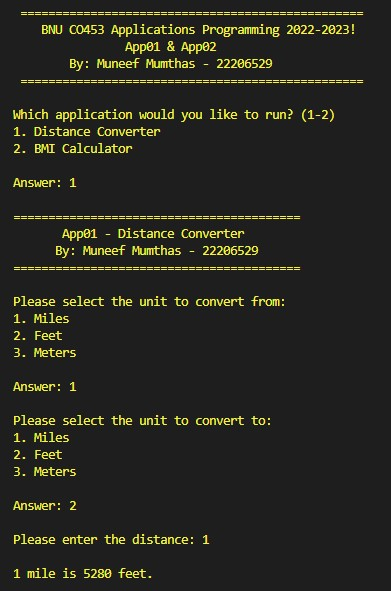
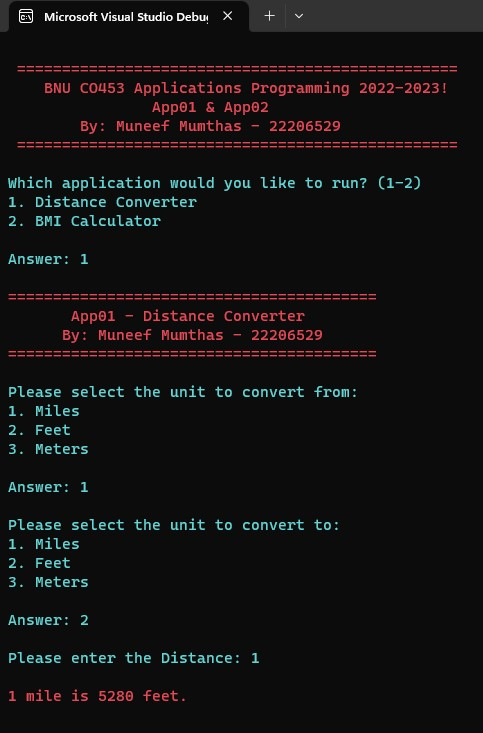
changed colours screenshots

Changed region(s): [[0.0, 0.0, 0.9514, 1.0]]

diff --git a/ConsoleAppProject/App01/DistanceConverter.cs b/ConsoleAppProject/App01/DistanceConverter.cs
@@ -26,6 +26,7 @@ namespace ConsoleAppProject.App01
         public void Input()
         {
             // Prompts user to select unit to convert from
+            Console.ForegroundColor = ConsoleColor.Cyan;
             Console.WriteLine("Please select the unit to convert from:");
             Console.WriteLine("1. Miles");
             Console.WriteLine("2. Feet");
@@ -36,6 +37,7 @@ namespace ConsoleAppProject.App01
             Console.WriteLine();
 
             // Prompts user to select unit to convert to
+            Console.ForegroundColor = ConsoleColor.Cyan;
             Console.WriteLine("Please select the unit to convert to:");
             Console.WriteLine("1. Miles");
             Console.WriteLine("2. Feet");
@@ -48,7 +50,9 @@ namespace ConsoleAppProject.App01
             // Error message for selecting the same unit and a prompt to select a different unit to convert to
             while (FromUnit == ToUnit)
             {
-            Console.WriteLine("Error: You cannot convert the same unit.");    
+            Console.ForegroundColor = ConsoleColor.DarkYellow;
+            Console.WriteLine("Error: You cannot convert the same unit.");
+            Console.ForegroundColor = ConsoleColor.Cyan;
             Console.WriteLine("Please select a different unit to convert to:");
             Console.WriteLine("1. Miles");
             Console.WriteLine("2. Feet");
@@ -60,6 +64,7 @@ namespace ConsoleAppProject.App01
             }
 
             // Prompts user to input Distance
+            Console.ForegroundColor = ConsoleColor.Cyan;
             Console.Write("Please enter the Distance: ");
             string input = Console.ReadLine();
 
@@ -70,18 +75,23 @@ namespace ConsoleAppProject.App01
                     Distance = Convert.ToDouble(input);
                     if (Distance < 0)
                     {
-                     throw new Exception("Distance cannot be negative.");
+                        Console.ForegroundColor = ConsoleColor.DarkYellow;
+                        throw new Exception("Distance cannot be negative.");
                     }
                     break;
                 }
                 catch (FormatException)
                 {
+                    Console.ForegroundColor = ConsoleColor.DarkYellow;
                     Console.WriteLine("Error: Invalid input. Please enter a valid numerical value.");
+                    Console.ForegroundColor = ConsoleColor.Cyan;
                     input = Console.ReadLine();
                 }
                 catch (Exception e)
                 {
+                    Console.ForegroundColor = ConsoleColor.DarkYellow;
                     Console.WriteLine("Error: " + e.Message + " Please enter a positive number: ");
+                    Console.ForegroundColor = ConsoleColor.Cyan;
                     input = Console.ReadLine();
                 }
             }
@@ -96,48 +106,60 @@ namespace ConsoleAppProject.App01
                     if (ToUnit == 2)
                     {
                         Result = Distance * MILES_IN_FEET;
+                        Console.ForegroundColor = ConsoleColor.Red;
                         Console.WriteLine();
                         Console.WriteLine(Distance + (Distance == 1 ? " mile" : " miles") + " is " + Result + (Result == 1 ? " foot" : " feet") + ".");
                         Console.WriteLine();
+                        Console.ForegroundColor = ConsoleColor.Cyan;
                     }
                     else if (ToUnit == 3)
                     {
                         Result = Distance * MILES_IN_FEET * FEET_IN_METERS;
+                        Console.ForegroundColor = ConsoleColor.Red;
                         Console.WriteLine();
                         Console.WriteLine(Distance + (Distance == 1 ? " mile" : " miles") + " is " + Result + (Result == 1 ? " meter" : " meters") + ".");
                         Console.WriteLine();
+                        Console.ForegroundColor = ConsoleColor.Cyan;
                     }
                     break;
                 case 2: // Converting From Feet
                     if (ToUnit == 1)
                     {
                         Result = Distance / MILES_IN_FEET;
+                        Console.ForegroundColor = ConsoleColor.Red;
                         Console.WriteLine();
                         Console.WriteLine(Distance + (Distance == 1 ? " foot" : " feet") + " is " + Result + (Result == 1 ? " mile" : " miles") + ".");
                         Console.WriteLine();
+                        Console.ForegroundColor = ConsoleColor.Cyan;
                     }
                     else if (ToUnit == 3)
                     {
                         Result = Distance * FEET_IN_METERS;
+                        Console.ForegroundColor = ConsoleColor.Red;
                         Console.WriteLine();
                         Console.WriteLine(Distance + (Distance == 1 ? " foot" : " feet") + " is " + Result + (Result == 1 ? " meter" : " meters") + ".");
                         Console.WriteLine();
+                        Console.ForegroundColor = ConsoleColor.Cyan;
                     }
                     break;
                 case 3: // Converting From Meters
                     if (ToUnit == 1)
                     {
                         Result = Distance / MILES_IN_FEET / FEET_IN_METERS;
+                        Console.ForegroundColor = ConsoleColor.Red;
                         Console.WriteLine();
                         Console.WriteLine(Distance + (Distance == 1 ? " meter" : " meters") + " is " + Result + (Result == 1 ? " mile" : " miles") + ".");
                         Console.WriteLine();
+                        Console.ForegroundColor = ConsoleColor.Cyan;
                     }
                     else if (ToUnit == 2)
                     {
                         Result = Distance / FEET_IN_METERS;
+                        Console.ForegroundColor = ConsoleColor.Red;
                         Console.WriteLine();
                         Console.WriteLine(Distance + (Distance == 1 ? " meter" : " meters") + " is " + Result + (Result == 1 ? " foot" : " feet") + ".");
                         Console.WriteLine();
+                        Console.ForegroundColor = ConsoleColor.Cyan;
                     }
                     break;
             }
@@ -157,7 +179,9 @@ namespace ConsoleAppProject.App01
             }
             catch (Exception)
             {
+            Console.ForegroundColor = ConsoleColor.DarkYellow;
             Console.WriteLine("Error: Invalid option entered. Please enter a number between 1 and 3.");
+            Console.ForegroundColor = ConsoleColor.Cyan;
             option = GetValidOption();
             }
             return option;

diff --git a/ConsoleAppProject/App02/BMI.cs b/ConsoleAppProject/App02/BMI.cs
@@ -32,6 +32,7 @@ namespace ConsoleAppProject.App02
             bool validInput = false;
             while (!validInput)
             {
+                Console.ForegroundColor = ConsoleColor.Cyan;
                 Console.WriteLine("Select your preferred unit system:");
                 Console.WriteLine("1. Metric");
                 Console.WriteLine("2. Imperial");
@@ -51,7 +52,9 @@ namespace ConsoleAppProject.App02
                 }
                 else
                 {
+                    Console.ForegroundColor = ConsoleColor.DarkYellow;
                     Console.WriteLine("Error: Invalid input. Please enter 1 or 2.");
+                    Console.ForegroundColor = ConsoleColor.Cyan;
                 }
                 Console.WriteLine();
             }
@@ -64,6 +67,7 @@ namespace ConsoleAppProject.App02
             bool validInput = false;
             while (!validInput)
             {
+                Console.ForegroundColor = ConsoleColor.Cyan;
                 Console.Write($"Enter your weight in {(units == "metric" ? "kilograms" : "stones, pounds")}: ");
         
                 if (units == "metric")
@@ -75,16 +79,20 @@ namespace ConsoleAppProject.App02
                     }
                     else
                     {
+                        Console.ForegroundColor = ConsoleColor.DarkYellow;
                         Console.WriteLine("Error: Invalid input. Please enter a positive number.");
+                        Console.ForegroundColor = ConsoleColor.Cyan;
                     }
                 }
                 else // imperial
                 {
+                    Console.ForegroundColor = ConsoleColor.Cyan;
                     Console.WriteLine();
                     Console.WriteLine();
                     Console.Write("Enter your weight in stones: ");
                     if (double.TryParse(Console.ReadLine(), out double stones) && stones >= 0)
                     {
+                        Console.ForegroundColor = ConsoleColor.Cyan;
                         Console.Write("Enter your weight in pounds: ");
                         if (double.TryParse(Console.ReadLine(), out double pounds) && pounds >= 0)
                         {
@@ -93,12 +101,16 @@ namespace ConsoleAppProject.App02
                         }
                         else
                         {
+                            Console.ForegroundColor = ConsoleColor.DarkYellow;
                             Console.WriteLine("Error: Invalid input. Please enter a positive integer.");
+                            Console.ForegroundColor = ConsoleColor.Cyan;
                         }
                     }
                     else
                     {
+                        Console.ForegroundColor = ConsoleColor.DarkYellow;
                         Console.WriteLine("Error: Invalid input. Please enter a positive integer.");
+                        Console.ForegroundColor = ConsoleColor.Cyan;
                     }
                 }
         
@@ -118,6 +130,7 @@ namespace ConsoleAppProject.App02
             bool validInput = false;
             while (!validInput)
             {
+                Console.ForegroundColor = ConsoleColor.Cyan;
                 Console.Write($"Enter your height in {(units == "metric" ? "meters" : "feet, inches")}: ");
 
                 if (units == "metric")
@@ -129,16 +142,20 @@ namespace ConsoleAppProject.App02
                     }
                     else
                     {
+                        Console.ForegroundColor = ConsoleColor.DarkYellow;
                         Console.WriteLine("Error: Invalid input. Please enter a positive number.");
+                        Console.ForegroundColor = ConsoleColor.Cyan;
                     }
                 }
                 else // imperial
                 {
+                    Console.ForegroundColor = ConsoleColor.Cyan;
                     Console.WriteLine();
                     Console.WriteLine();
                     Console.Write("Enter your height in feet: ");
                     if (double.TryParse(Console.ReadLine(), out double feet) && feet >= 0)
                     {
+                        Console.ForegroundColor = ConsoleColor.Cyan;
                         Console.Write("Enter your height in inches: ");
                         if (double.TryParse(Console.ReadLine(), out double inches) && inches >= 0)
                         {
@@ -147,12 +164,16 @@ namespace ConsoleAppProject.App02
                         }
                         else
                         {
+                            Console.ForegroundColor = ConsoleColor.DarkYellow;
                             Console.WriteLine("Error: Invalid input. Please enter a positive integer.");
+                            Console.ForegroundColor = ConsoleColor.Cyan;
                         }
                     }
                     else
                     {
+                        Console.ForegroundColor = ConsoleColor.DarkYellow;
                         Console.WriteLine("Error: Invalid input. Please enter a positive integer.");
+                        Console.ForegroundColor = ConsoleColor.Cyan;
                     }
                 }
 
@@ -176,6 +197,7 @@ namespace ConsoleAppProject.App02
         // Outputs WHO (World Health Organisation) weight status
         private void OutputResult()
         {
+            Console.ForegroundColor = ConsoleColor.Red;
             Console.Write($"Your BMI is {bmi:f2}, ");
 
             if (bmi < 18.5)
@@ -210,6 +232,7 @@ namespace ConsoleAppProject.App02
             Console.WriteLine("Adults 23.0 or more are at increased risk");
             Console.WriteLine("Adults 27.5 or more are at high risk");
             Console.WriteLine();
+            Console.ForegroundColor = ConsoleColor.Cyan;
         }
     }
 }

diff --git a/ConsoleAppProject/Program.cs b/ConsoleAppProject/Program.cs
@@ -18,9 +18,9 @@ namespace ConsoleAppProject
     {
         public static void Main(string[] args)
         {
-            Console.ForegroundColor = ConsoleColor.Yellow;
-            
-    /// General Heading
+
+            /// General Heading
+            Console.ForegroundColor = ConsoleColor.Red;
             Console.WriteLine();
             Console.WriteLine(" =================================================");
             Console.WriteLine("    BNU CO453 Applications Programming 2022-2023! ");
@@ -29,7 +29,8 @@ namespace ConsoleAppProject
             Console.WriteLine(" =================================================");
             Console.WriteLine();
 
-    /// Prompt to choose the apps
+            /// Prompt to choose the apps
+            Console.ForegroundColor = ConsoleColor.Cyan;
             Console.WriteLine("Which application would you like to run? (1-2)");
             Console.WriteLine("1. Distance Converter");
             Console.WriteLine("2. BMI Calculator");
@@ -47,13 +48,16 @@ namespace ConsoleAppProject
                 }
                 else
                 {
+                    Console.ForegroundColor = ConsoleColor.DarkYellow;
                     Console.WriteLine("Please enter a valid input (1-2).");
+                    Console.ForegroundColor = ConsoleColor.Cyan;
                 }
             }
 
     /// Run App01 with a subheading  
             if (appNumber == 1)
             {
+            Console.ForegroundColor = ConsoleColor.Red;
             Console.WriteLine();
             Console.WriteLine("=========================================");
             Console.WriteLine("       App01 - Distance Converter        ");
@@ -67,7 +71,8 @@ namespace ConsoleAppProject
             
     /// Run App02 with a subheading  
             else if (appNumber == 2)
-            {       
+            {  
+            Console.ForegroundColor = ConsoleColor.Red;
             Console.WriteLine();
             Console.WriteLine("==================================================");
             Console.WriteLine("     App02 - Body Mass Index (BMI) Calculator     ");
